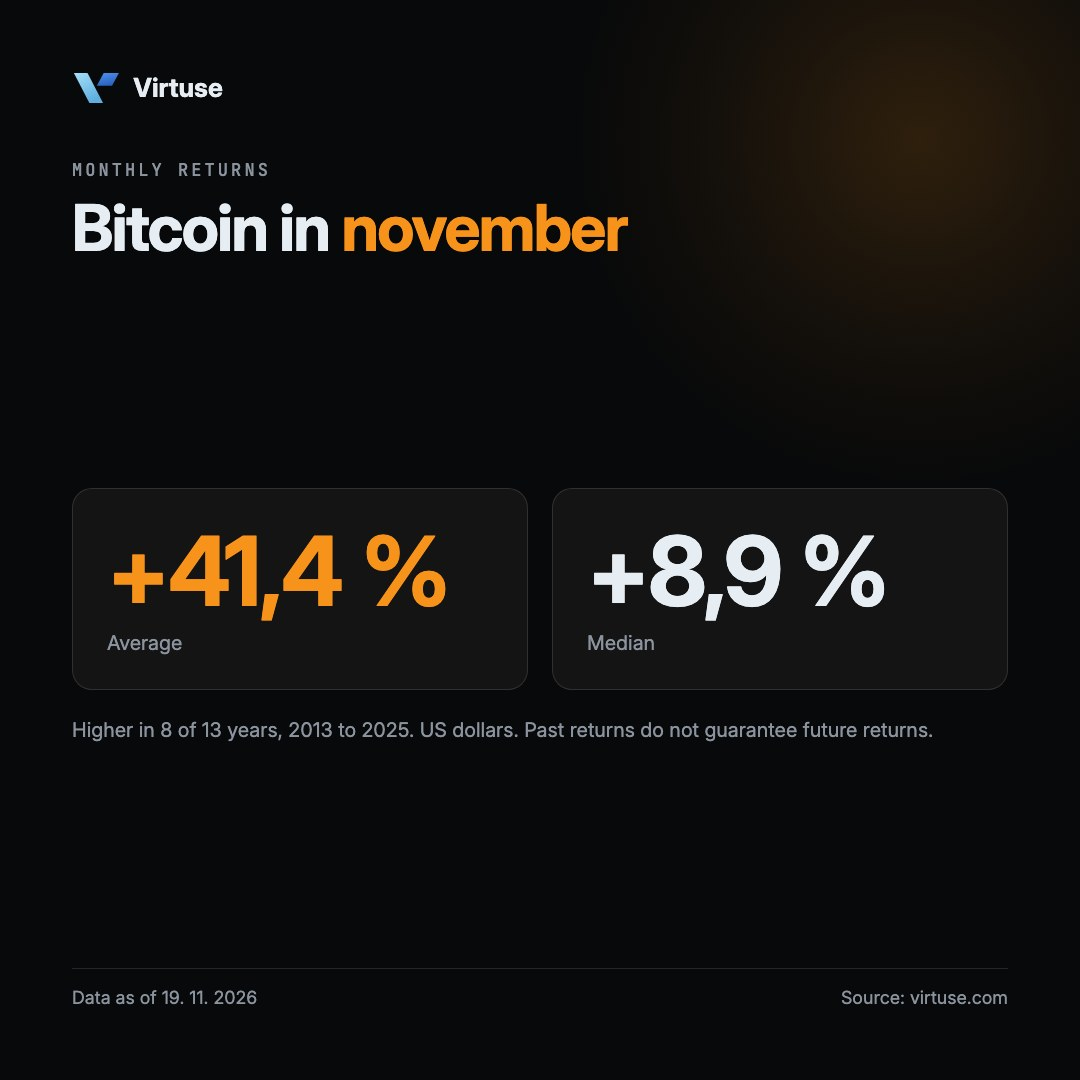
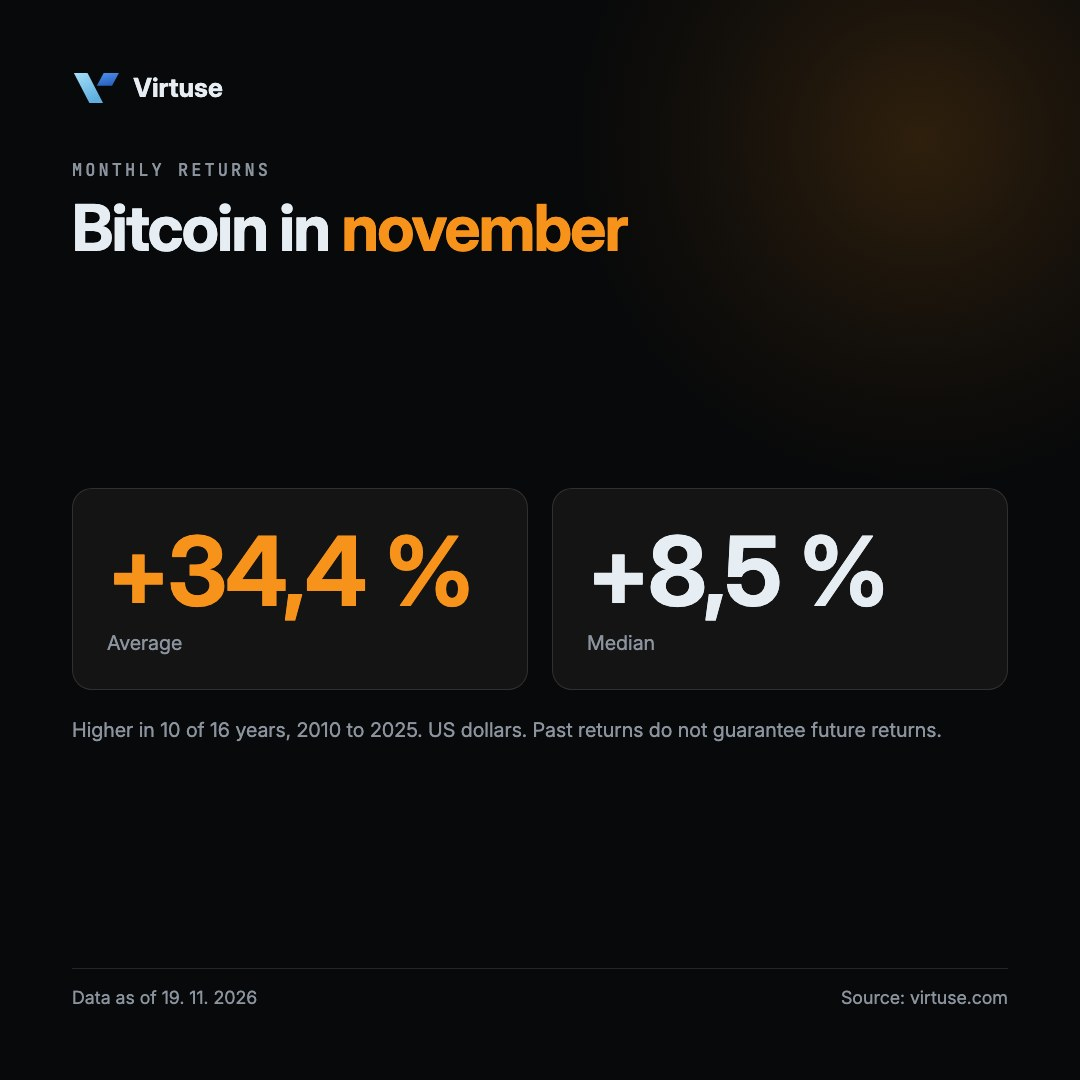
Share kit: monthly graphic counts from 2010, as the Monthly Returns pages
Ras, 20 Nov: the monthly-returns image takes the average and median of
the current month over all complete years from the same btc-returns.js
model the site uses, so it matches /bitcoin-returns/<month>/ (November:
+34.4% average, +8.5% median, higher in 10 of 16 years, 2010 to 2025).
Re-rendered the 4 monthly-returns images.

diff --git a/Kimi_Agent_Virtuse%20MiCA%20Partners/i18n-tools/creators/render_kit.py b/Kimi_Agent_Virtuse%20MiCA%20Partners/i18n-tools/creators/render_kit.py
@@ -8,7 +8,8 @@ Every number is read from the data files at render time; nothing is typed into a
   asset-returns    data/asset-returns.json            Bitcoin's rank and per-year return since 2016
   fee-index        seo-build/data/fee-index.json      total cost of a EUR 100 buy (same ranking as the Fee Index page;
                                                       a route whose spread is not measured yet is shown unranked)
-  monthly-returns  data/btc-monthly-returns.json      average and median return of the current month (btc-returns.js model)
+  monthly-returns  data/btc-monthly-returns.json      average and median return of the current month over all complete years,
+                                                      exactly as the Monthly Returns pages show it (btc-returns.js model, from 2010)
 Labels come from creators/<lang>.json (kit_* keys), so the SK images follow sk.json.
 
 Rendering: a local http.server serves the generated HTML; Chrome runs headless with
@@ -29,7 +30,6 @@ SIZES = {'1080x1080': (1080, 1080), '1200x675': (1200, 675)}
 GRAPHICS = ['btc-vs-gold', 'asset-returns', 'fee-index', 'monthly-returns']
 MAX_BYTES = 300 * 1024
 MONTHS_SK = ['január', 'február', 'marec', 'apríl', 'máj', 'jún', 'júl', 'august', 'september', 'október', 'november', 'december']
-FIRST_MONTHLY_YEAR = 2013   # handover: "average and median return of the current month since 2013"
 
 esc = lambda s: html.escape(str(s), quote=True)
 
@@ -75,19 +75,15 @@ def d_fees():
 
 
 def d_monthly():
-    """Average and median of the current calendar month over complete years since FIRST_MONTHLY_YEAR,
-    computed by the same model the Monthly Returns pages use (btc-returns.js)."""
+    """Average and median of the current calendar month over all complete years, taken from the same
+    btc-returns.js model the Monthly Returns pages use, so the image matches the site (Ras, 20 Nov: from 2010)."""
     js = r'''
-const R = require(process.argv[1]), d = require(process.argv[2]), first = +process.argv[3];
+const R = require(process.argv[1]), d = require(process.argv[2]);
 const M = R.model(d, new Date(d.asOf + 'T12:00:00Z'));
-const X = M.months[M.cm - 1], list = X.list.filter(r => r.y >= first), v = list.map(r => r.v).sort((a, b) => a - b);
-const mean = v.reduce((a, b) => a + b, 0) / v.length, mid = v.length >> 1;
-const med = v.length % 2 ? v[mid] : (v[mid - 1] + v[mid]) / 2;
-process.stdout.write(JSON.stringify({ m: M.cm, first: list[0].y, last: list[list.length - 1].y, n: v.length,
-  pos: v.filter(x => x > 0).length, avg: mean, med: med, asOf: d.asOf }));
+const X = M.months[M.cm - 1];
+process.stdout.write(JSON.stringify({ m: M.cm, first: X.first, last: X.last, n: X.n, pos: X.pos, avg: X.avg, med: X.med, asOf: d.asOf }));
 '''
-    r = subprocess.run(['node', '-e', js, os.path.join(SITE, 'btc-returns.js'), os.path.join(SITE, 'data', 'btc-monthly-returns.json'),
-                        str(FIRST_MONTHLY_YEAR)], capture_output=True, text=True, check=True)
+    r = subprocess.run(['node', '-e', js, os.path.join(SITE, 'btc-returns.js'), os.path.join(SITE, 'data', 'btc-monthly-returns.json')], capture_output=True, text=True, check=True)
     return json.loads(r.stdout)
 
 
